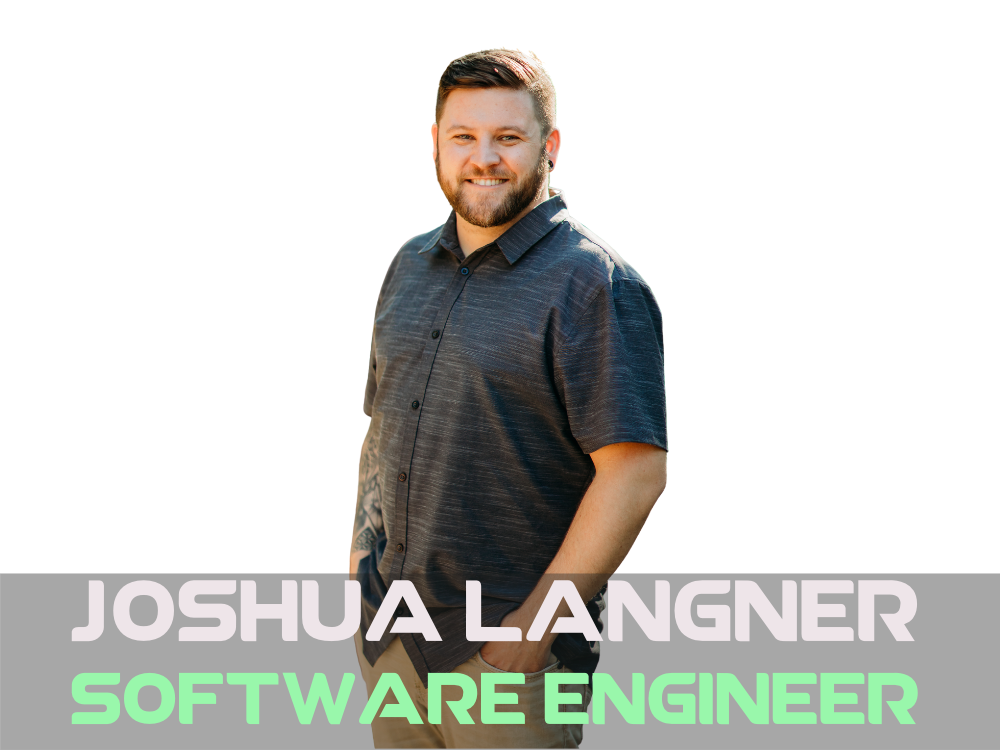
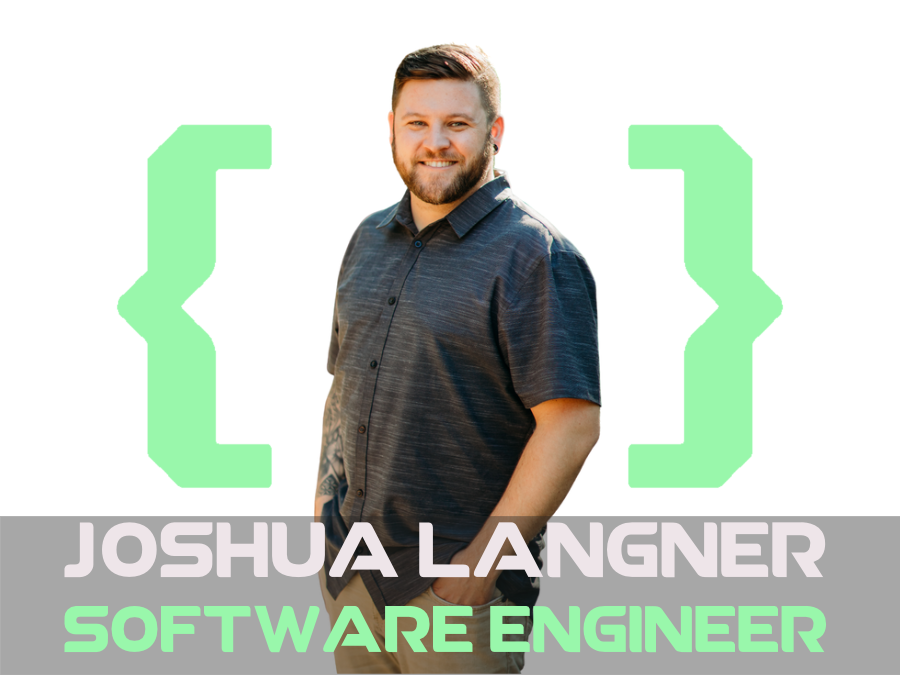
footer and additional styling to UI

diff --git a/client/src/pages/aboutMe.jsx b/client/src/pages/aboutMe.jsx
@@ -27,7 +27,7 @@ function AboutMe() {
             <NavLink to='/'> <img src={home} alt="home icon" className='icon'/> </NavLink>
       <img src={header} alt="headshot and title Joshua Langner Software engineer" className='header_logo' id='#top'/>
       <div className='page_content'>
-        <h1 className='page_content_header'>About Me</h1>
+        <h1 className='page_content_header'>&#60; About Me &#47;&#62;</h1>
         <h2 className='page_content_subheader'>An Overview</h2>
         <p className='page_content_body'>I am a software engineer with a background in technical support, sales, and leadership in the electronics and cellular industry.
           <br/>
@@ -50,7 +50,7 @@ function AboutMe() {
       </div>
       <div className='page_content'>
         <HashLink smooth to='#top'> <img src={toTop} alt="to top icon" className='icon'/></HashLink>
-        <h1 className='page_content_header'>Skills</h1>
+        <h1 className='page_content_header'>&#60; Skills &#47;&#62;</h1>
         <div className='skills_container'>
           <div className='skill_list'>
             <h3 className='skill_header'>Languages</h3>
@@ -112,12 +112,12 @@ function AboutMe() {
         </div>
       <div className='page_content'>
         <HashLink smooth to='#top'> <img src={toTop} alt="to top icon" className='icon'/></HashLink>
-        <h1 className='page_content_header'>Project Portolio</h1>
+        <h1 className='page_content_header'>&#60; Project Portfolio &#47;&#62;</h1>
         <SlideShow/>
       </div>
       <div className='page_content'>
       <HashLink smooth to='#top'> <img src={toTop} alt="to top icon" className='icon'/> </HashLink>
-        <h1 className='page_content_header'>Connect With Me!</h1>
+        <h1 className='page_content_header'>&#60; Connect with Me &#47;&#62;</h1>
       <Contact/>
       
       </div>

diff --git a/client/src/App.css b/client/src/App.css
@@ -62,7 +62,7 @@ body {
 .icon {
   width: 25px;
   float: left;
-  margin: 20px;
+  margin: 10px -15px 0px 10px;
 }
 
 .splash_header_logo {
@@ -101,7 +101,7 @@ width: 40%
   width: 65%;
   margin-top: 40px;
   border-radius: 20px;
-  margin-bottom: 10px;
+  margin-bottom: 60px;
 }
 
 .page_content_header {
@@ -109,9 +109,12 @@ width: 40%
   text-transform: uppercase;
   font-size: 48px;
   padding: 15px;
-  color: #73009d;
-  width: 75%;
+  color: #99F7AB;
+  width: fit-content;
   margin: 0 auto;
+  background-color: #222222;
+  border-top: 20px solid #EEE5E9;
+  border-bottom: 20px solid #EEE5E9;
 }
 
 .page_content_subheader {
@@ -122,6 +125,7 @@ width: 40%
   text-align: left;
   padding: 10px;
   color: #73009d;
+
 }
 
 .contact_header {
@@ -205,6 +209,18 @@ form {
 .social_icon {
   width: 90px;
   padding: 15px;
+}
+
+.footer {
+  height:50px;
+  width: 65%;  
+  text-align:center;
+  display: flex;
+  flex-direction: column;
+  justify-content: center;
+  bottom: 0;
+  left: 0;
+  border-top: 1px solid #EEE5E9;
 }
 
 

diff --git a/client/src/App.js b/client/src/App.js
@@ -11,6 +11,7 @@ import Lindsay from './pages/project_pages/lindsay'
 import Recipes from './pages/project_pages/recipes'
 import WikiBean from './pages/project_pages/wikibean'
 import RpsVue from './pages/project_pages/rpsvue'
+import Footer from './components/footer'
 
 function App() {
   return (
@@ -26,7 +27,10 @@ function App() {
         <Route path="/portfolio/order_form" element={<Lindsay />} />
         <Route path="/portfolio/PERN_recipes" element={<Recipes />} />
         <Route path="/portfolio/PERN_wikibean" element={<WikiBean />} />
+        <Route path="/portfolio/vue_rock-paper-scissors" element={<RpsVue />} />
       </Routes>
+      <br></br>
+      <Footer />
     </div>
   )
 }
